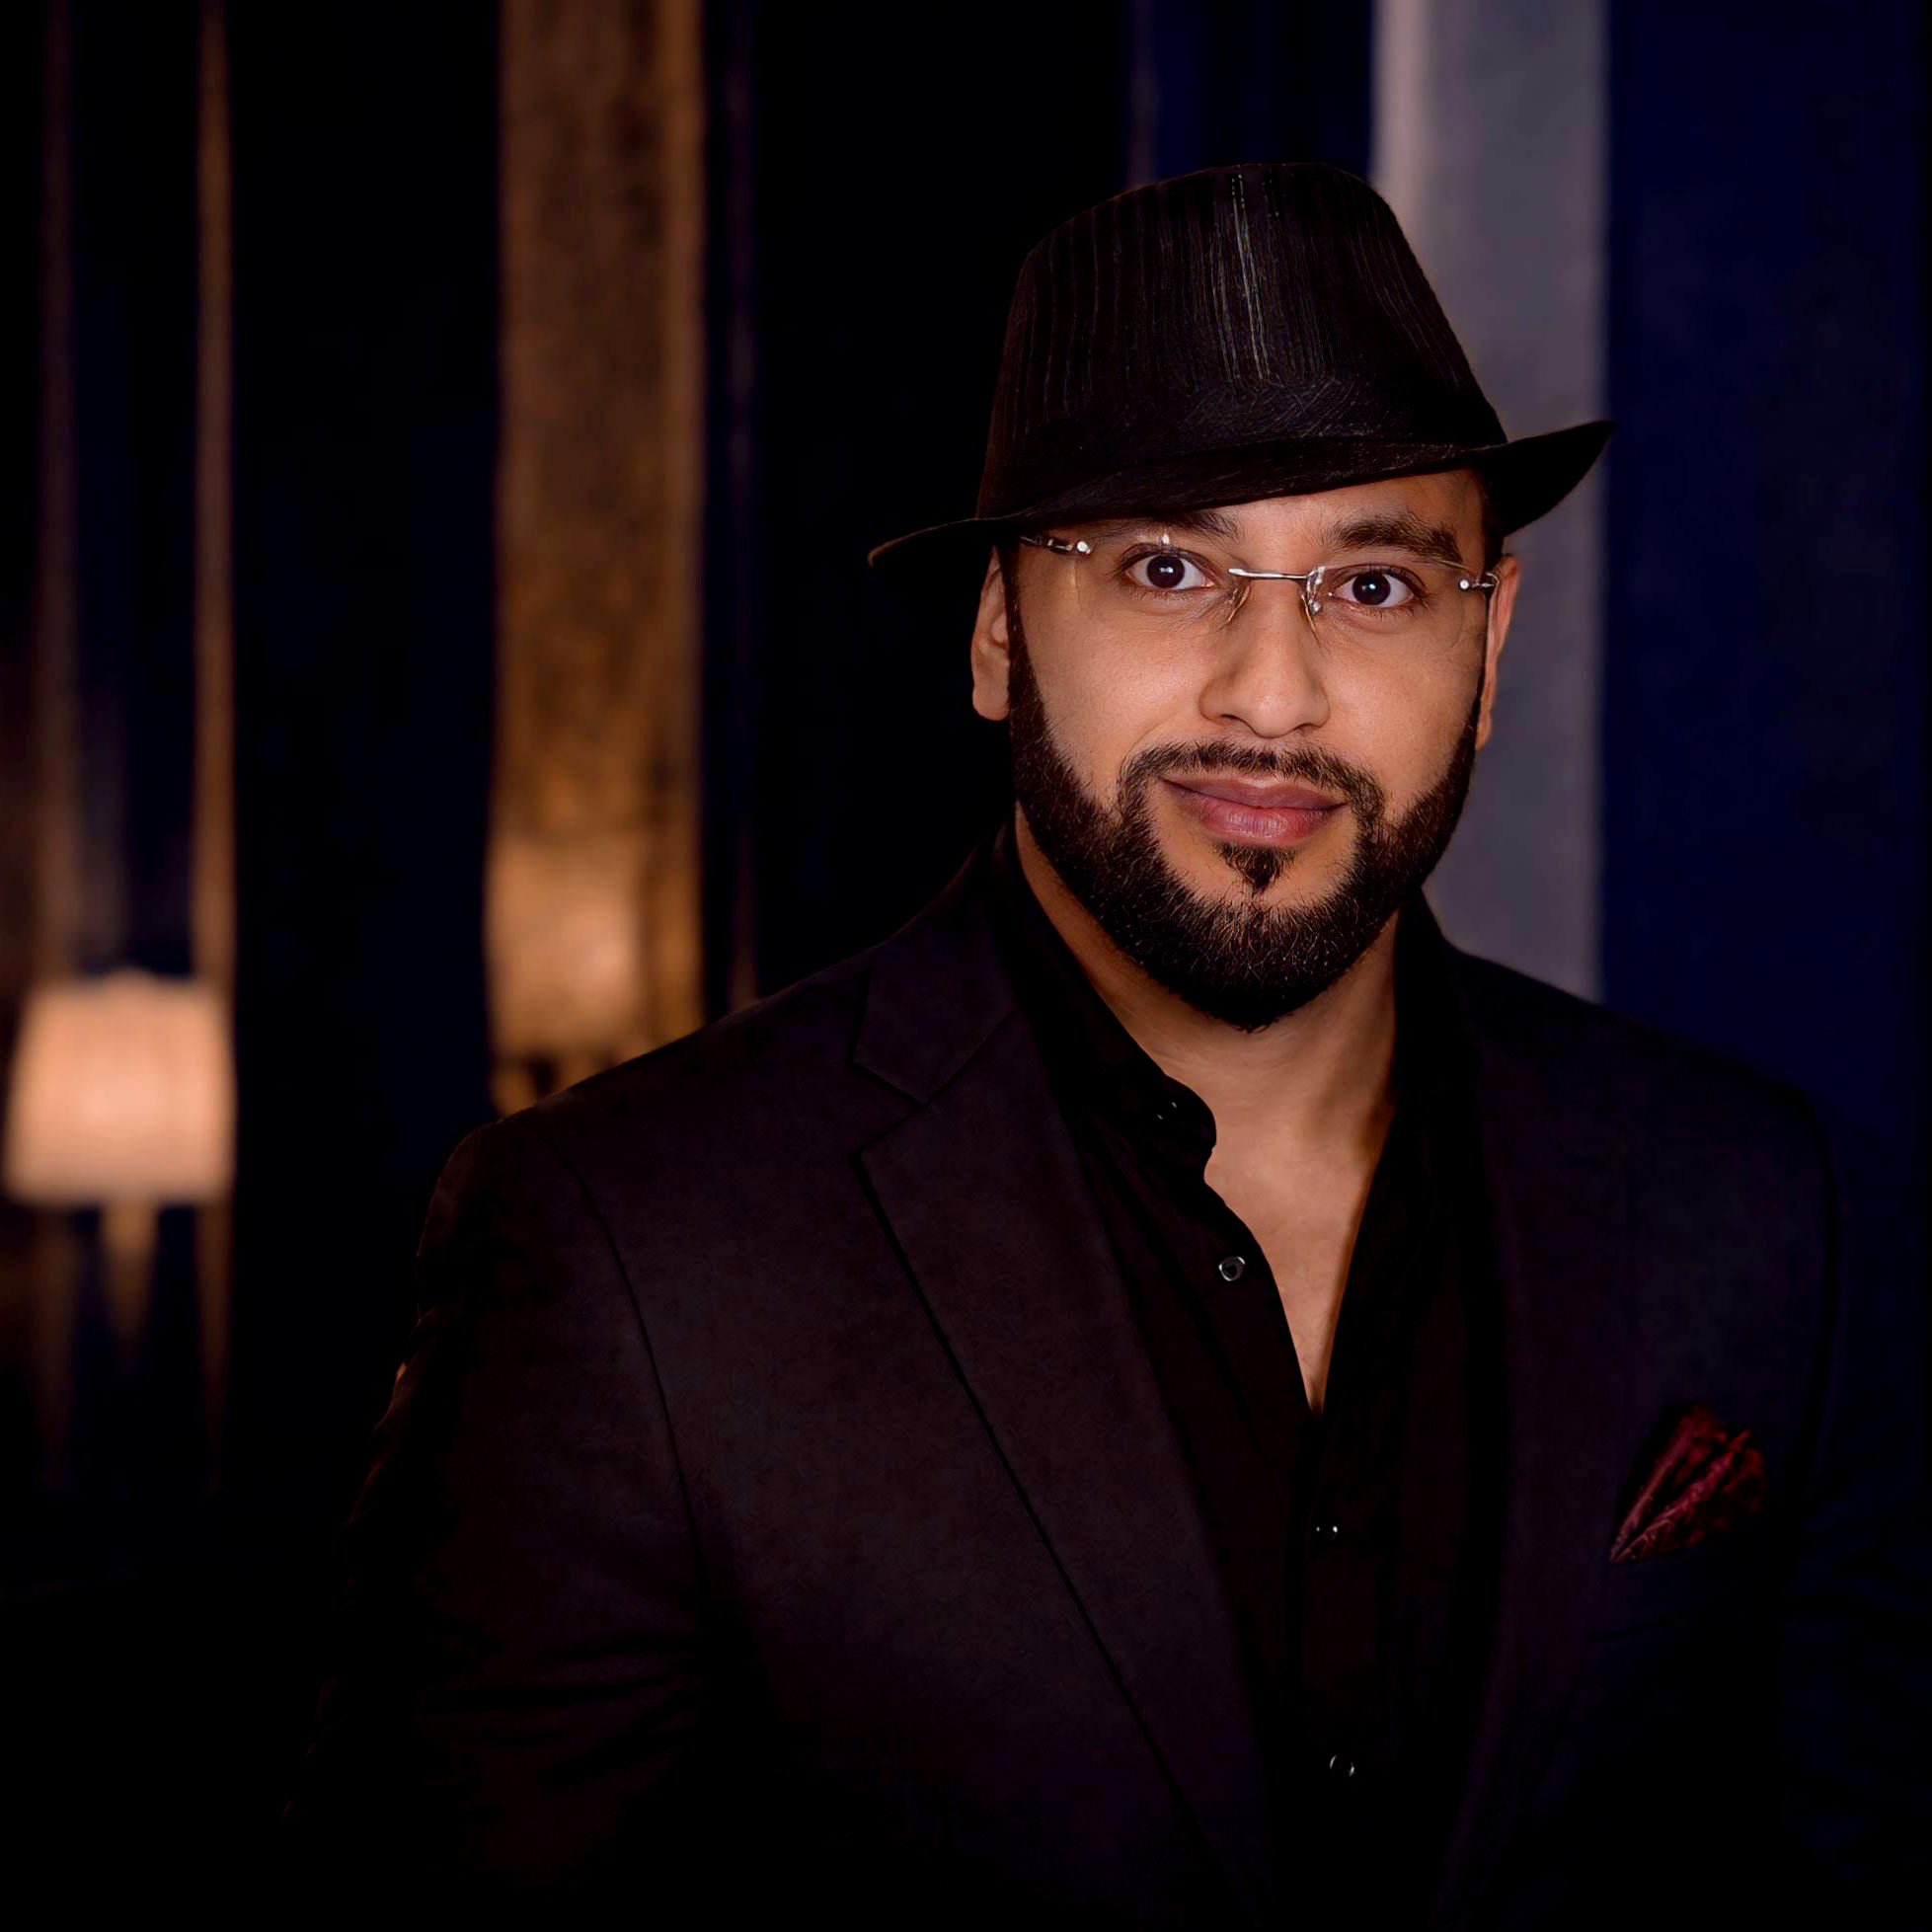
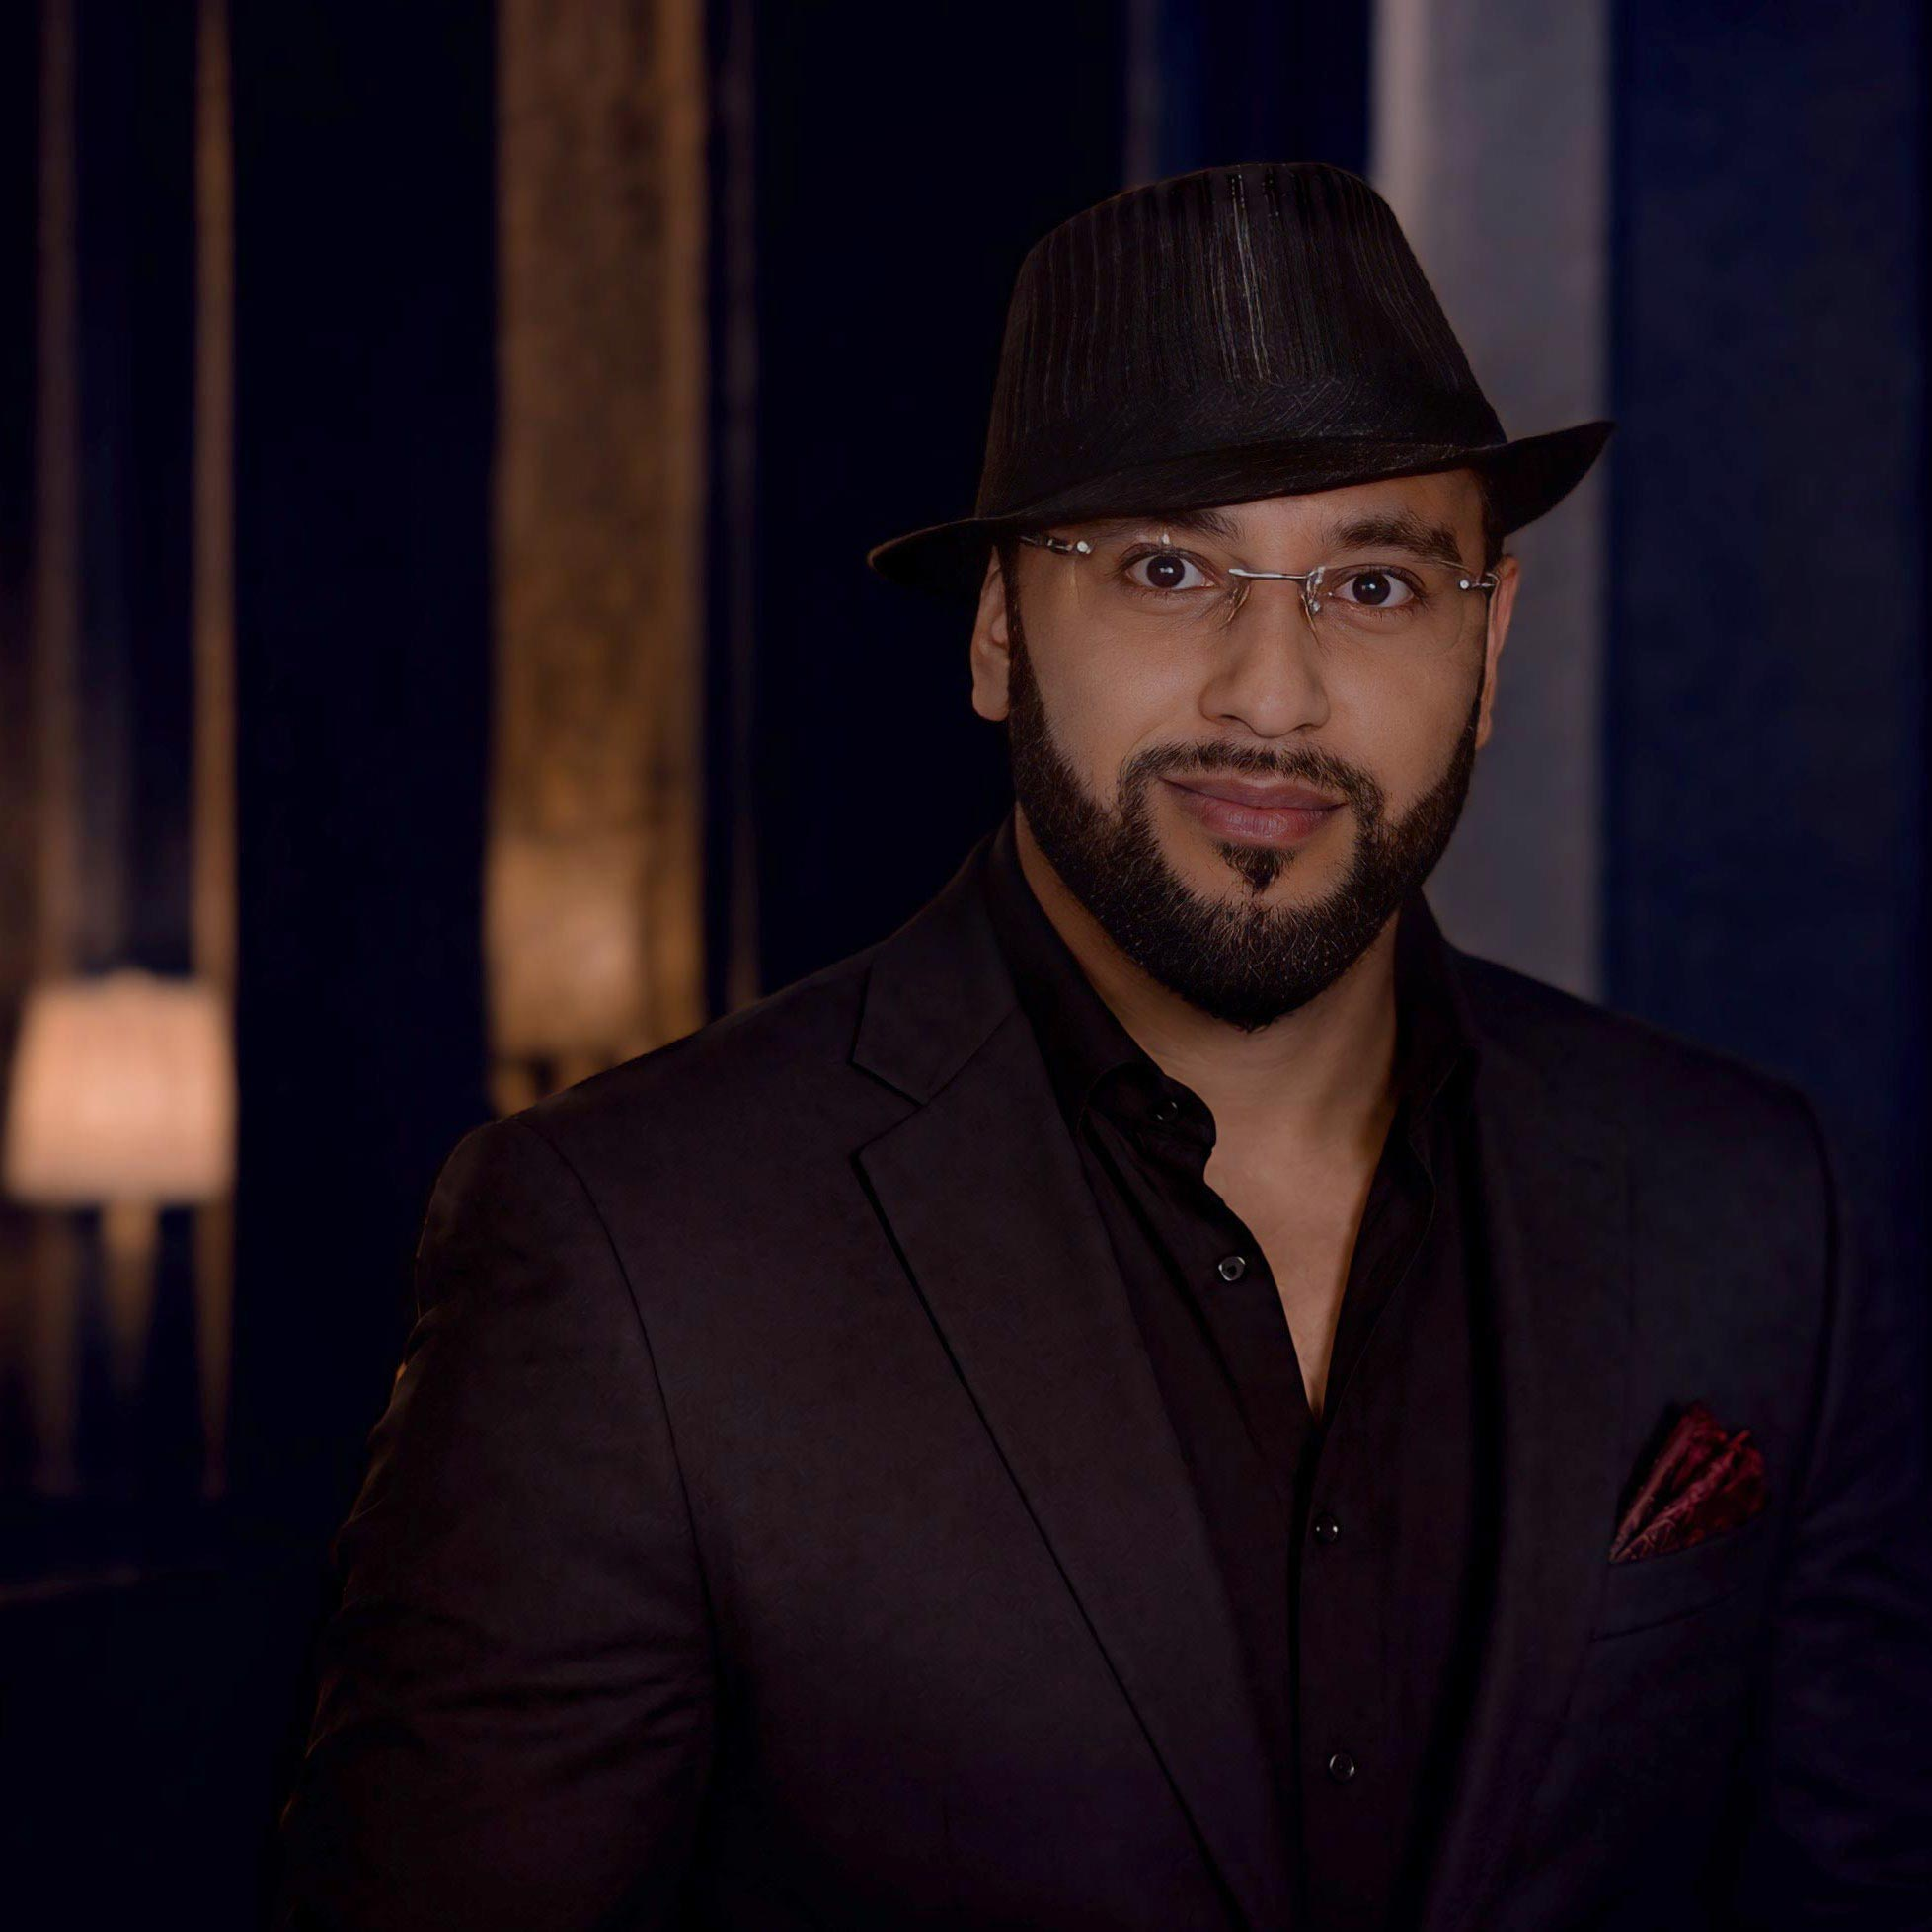
Add files via upload

diff --git a/assets/css/style.css b/assets/css/style.css
@@ -375,6 +375,12 @@ input:focus, select:focus, textarea:focus { outline: none; border-color: var(--c
     padding: 5px;
 }
 .menu-toggle span { width: 30px; height: 2px; background: var(--color-gold); transition: var(--transition); display: block; }
+/* Sinal Visual de Wake Lock Ativo */
+.menu-toggle.wake-lock-active span:nth-child(3) {
+    width: 22px; /* Encurta a terceira linha */
+    margin-left: auto; /* Alinha à direita para o encurtamento ser na esquerda, ou mantenha default */
+    background: var(--color-gold-light); /* Cor levemente mais viva */
+}
 
 @media (max-width: 991px) {
     .menu-toggle { display: flex; }

diff --git a/assets/js/main.js b/assets/js/main.js
@@ -73,6 +73,12 @@ function initTripleWakeLock() {
         if (heroVideo && heroVideo.paused) {
             heroVideo.play().catch(err => console.log("Hero Video aguardando...", err));
         }
+
+        // 5. Sinal Visual (Terceira linha do menu)
+        const menuToggle = document.getElementById('menuToggle');
+        if (menuToggle) {
+            menuToggle.classList.add('wake-lock-active');
+        }
     };
 
     // Ativa em qualquer interação